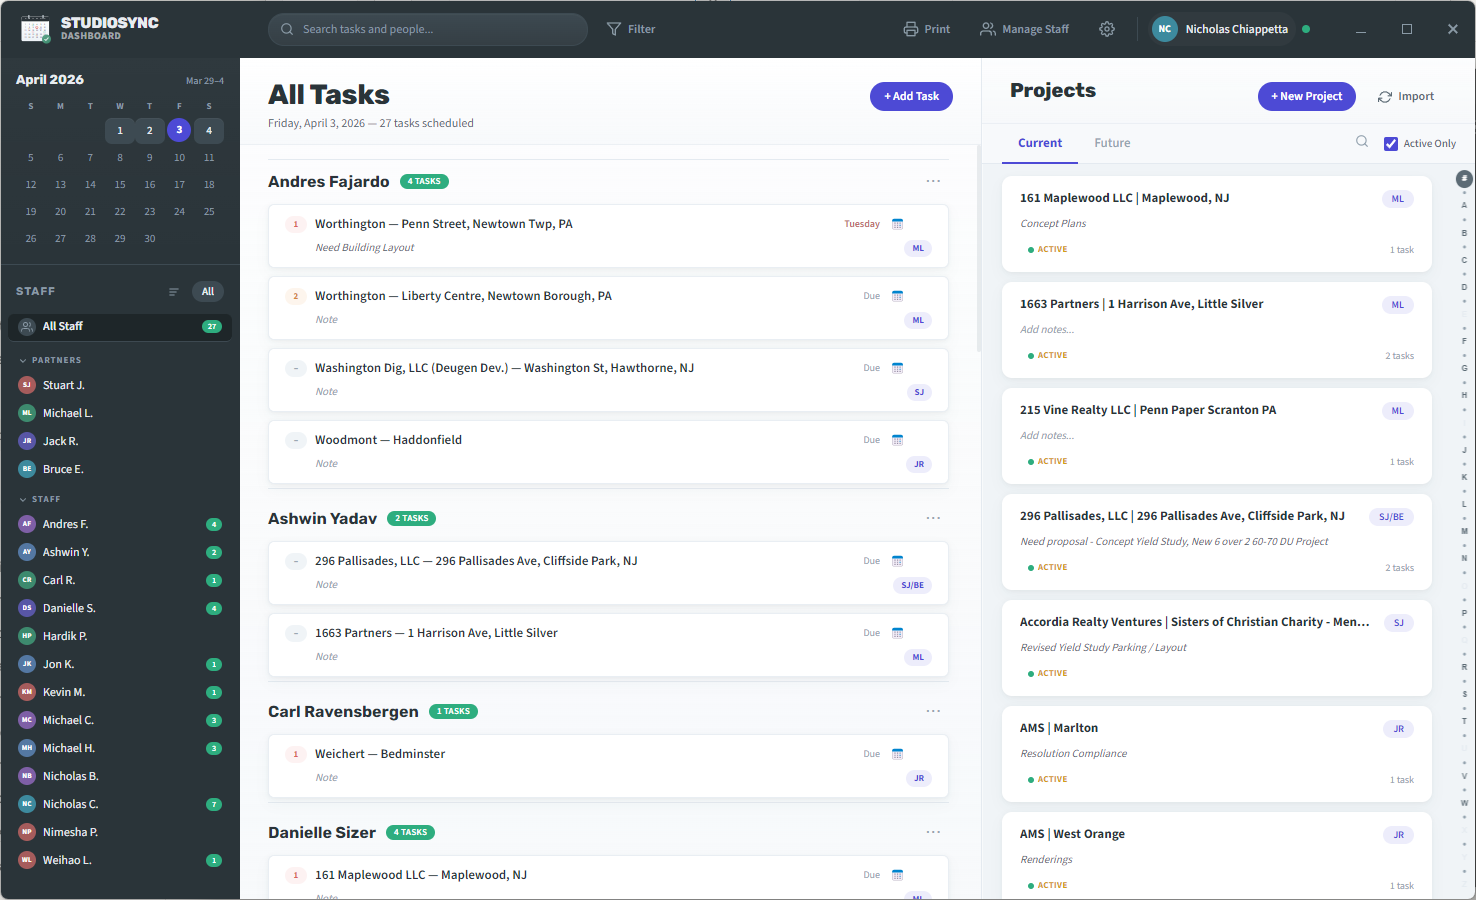
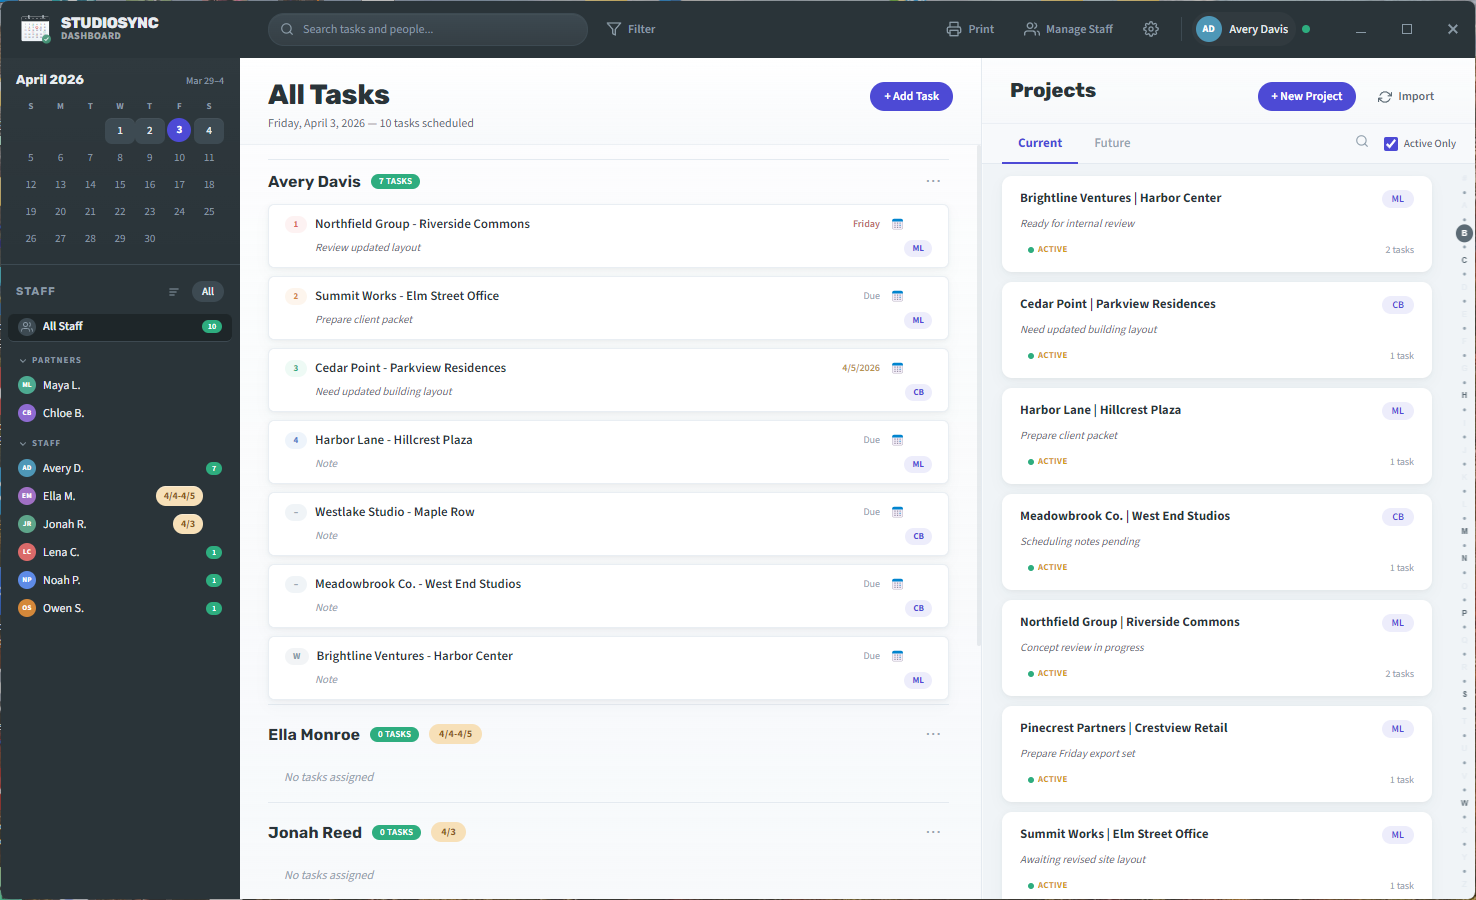
Replace README screenshots with demo captures

diff --git a/README.md b/README.md
@@ -120,4 +120,4 @@ Setup details for restoring signed releases later are documented in [`docs/signp
 
 ## Screenshot note
 
-The screenshots in this README are real captures from the current Windows builds running against a local development workspace.
+The screenshots in this README use fictional demo users, project names, and notes created specifically for documentation.
